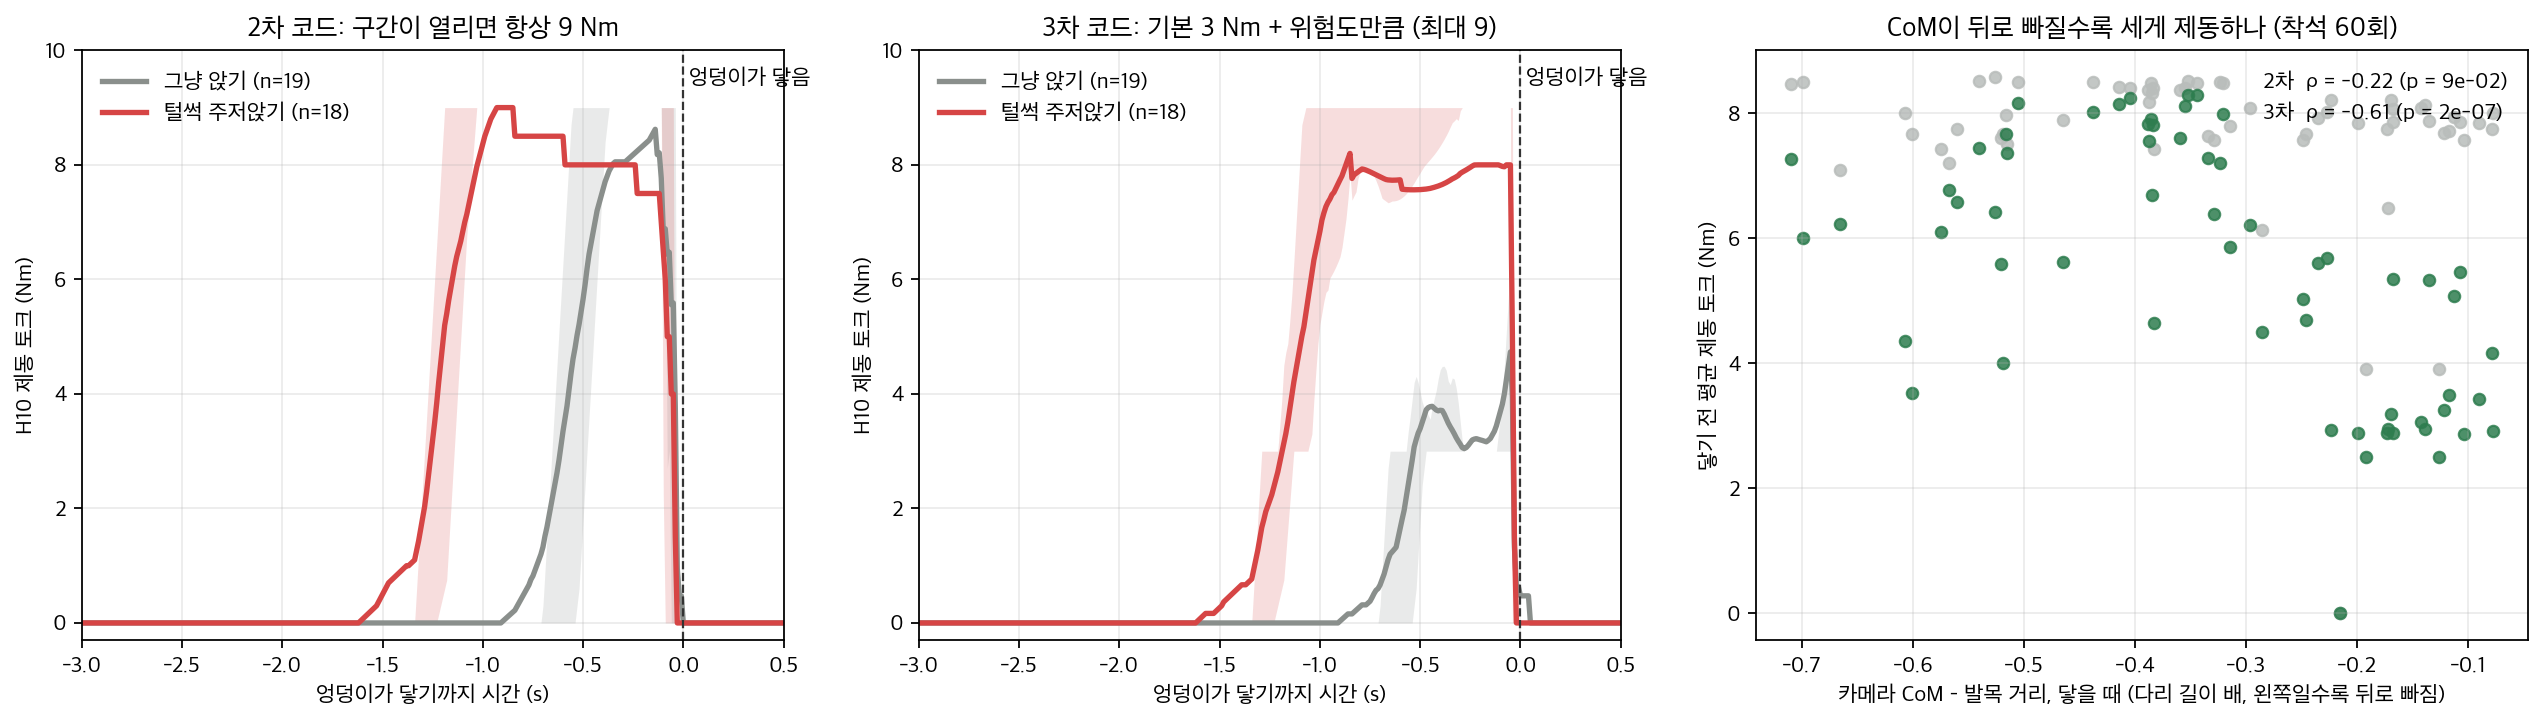
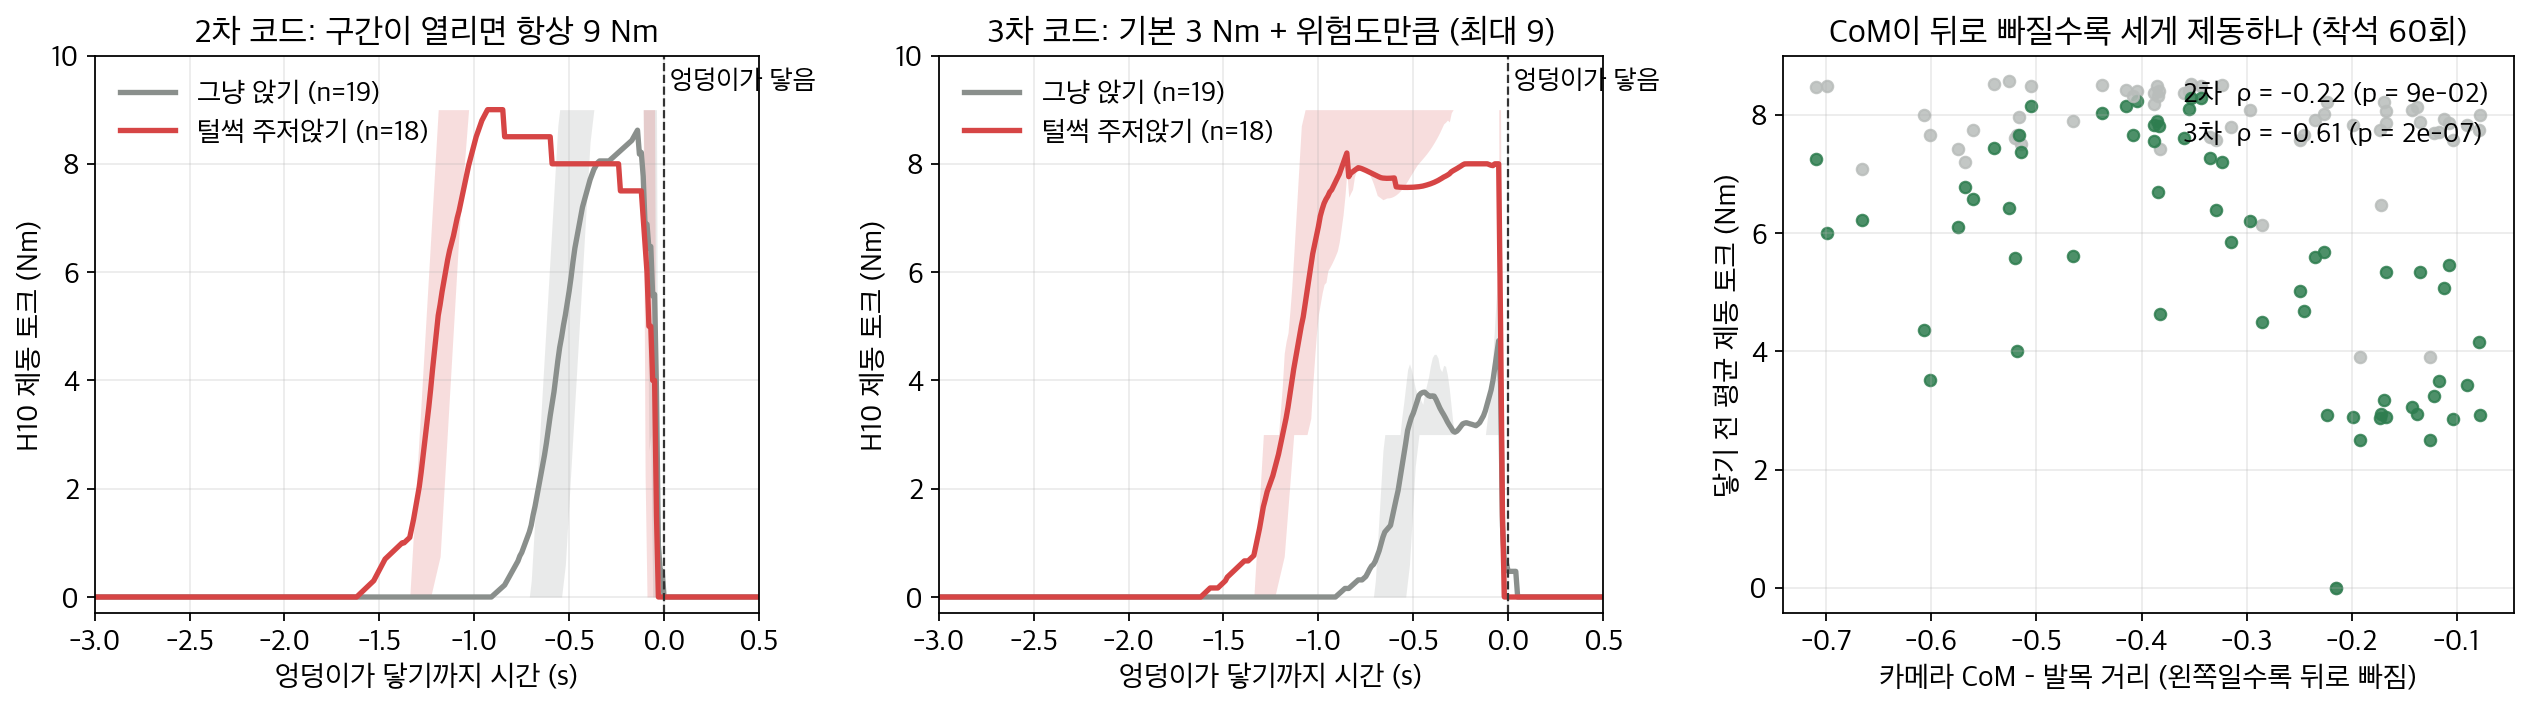
Reflect 1st->2nd->3rd algorithm story and 3rd replay in script and Q&A

diff --git a/firmware/replay_3rd_test.py b/firmware/replay_3rd_test.py
@@ -93,6 +93,7 @@ def plot(r: pd.DataFrame, path: str):
     from matplotlib import font_manager as fm
     fm.fontManager.addfont("/System/Library/Fonts/AppleSDGothicNeo.ttc")
     plt.rcParams["font.family"] = "Apple SD Gothic Neo"; plt.rcParams["axes.unicode_minus"] = False
+    plt.rcParams["font.size"] = 13
     C = {"그냥": "#8a8f8c", "털썩": "#d64545"}; t = np.arange(-300, 51) / 100
     fig, ax = plt.subplots(1, 3, figsize=(16, 4.6), dpi=160, gridspec_kw={"width_ratios": [1, 1, 1.1]})
     one = r.group.str.startswith("첫 번째")
@@ -103,19 +104,19 @@ def plot(r: pd.DataFrame, path: str):
             m = np.nanmean(X, 0); q1, q3 = np.nanpercentile(X, [25, 75], 0)
             a.fill_between(t, q1, q3, color=C[ty], alpha=.18, lw=0)
             a.plot(t, m, color=C[ty], lw=2.4, label=f"{'그냥 앉기' if ty == '그냥' else '털썩 주저앉기'} (n={len(X)})")
-        a.axvline(0, color="#333", lw=1, ls="--"); a.text(0.03, 9.4, "엉덩이가 닿음", fontsize=10)
+        a.axvline(0, color="#333", lw=1, ls="--"); a.text(0.03, 9.4, "엉덩이가 닿음", fontsize=12)
         a.set_ylim(-0.3, 10); a.set_xlim(-3, 0.5); a.set_xlabel("엉덩이가 닿기까지 시간 (s)")
         a.set_ylabel("H10 제동 토크 (Nm)")
-        a.set_title(f"{n} 코드: " + ("구간이 열리면 항상 9 Nm" if n == "2차" else "기본 3 Nm + 위험도만큼 (최대 9)"), fontsize=12)
-        a.legend(loc="upper left", fontsize=10, frameon=False); a.grid(alpha=.25)
+        a.set_title(f"{n} 코드: " + ("구간이 열리면 항상 9 Nm" if n == "2차" else "기본 3 Nm + 위험도만큼 (최대 9)"), fontsize=15)
+        a.legend(loc="upper left", fontsize=12.5, frameon=False); a.grid(alpha=.25)
     from scipy.stats import spearmanr
     a = ax[2]
     for n, mk, col in [("2차", "o", "#b9bdbb"), ("3차", "o", "#2e7d4f")]:
         x = r[r.alg == n]; rho, p = spearmanr(x.mean_on, x.dx)
         a.scatter(x.dx, x.mean_on, s=26, marker=mk, color=col, alpha=.85, label=f"{n}  ρ = {rho:+.2f} (p = {p:.0e})")
-    a.set_xlabel("카메라 CoM – 발목 거리, 닿을 때 (다리 길이 배, 왼쪽일수록 뒤로 빠짐)")
-    a.set_ylabel("닿기 전 평균 제동 토크 (Nm)"); a.set_title("CoM이 뒤로 빠질수록 세게 제동하나 (착석 60회)", fontsize=12)
-    a.legend(loc="upper right", fontsize=10, frameon=False); a.grid(alpha=.25)
+    a.set_xlabel("카메라 CoM – 발목 거리 (왼쪽일수록 뒤로 빠짐)")
+    a.set_ylabel("닿기 전 평균 제동 토크 (Nm)"); a.set_title("CoM이 뒤로 빠질수록 세게 제동하나 (착석 60회)", fontsize=15)
+    a.legend(loc="upper right", fontsize=12.5, frameon=False); a.grid(alpha=.25)
     fig.tight_layout(); fig.savefig(path, bbox_inches="tight"); print("그림:", path)
 
 

diff --git a/presentation/예상_질문.md b/presentation/예상_질문.md
@@ -142,3 +142,17 @@
 
 **Q33. 실험의 의의를 한 문장으로 하면요?** [38]
 사람마다 평소 착석으로 기준을 만들고, 카메라 CoM으로 찾은 H10 신호로 위험한 착석을 골라 제동하도록 설계했고, 그 제동으로 닿기 직전 하강 속도가 실제로 25~40% 줄었습니다.
+
+---
+
+## 7. 2차 · 3차 알고리즘
+
+**Q34. 2차 실측에서 속도가 줄어든 건 위험 감지 덕분인가요?** [35]
+아닙니다. 2차는 위험 감지 없이 허벅지 25°~70°에서 같은 세기로 제동한 구간 제동입니다. 2차가 보여 준 건 '이 구간에서 제동하면 닿기 직전 하강 속도가 실제로 줄어든다'까지입니다. 위험한 착석을 골라 더 세게 거는 것은 3차에서 넣었고, 지금은 기록 재생으로만 확인했습니다.
+
+**Q35. 3차는 2차에서 무엇이 바뀌었나요?** [36 · 37]
+구간은 그대로 두고 세기만 바꿨습니다. 토크 = 기본 3 Nm + 6 Nm × 위험도이고, 위험도는 ① 평소보다 빠른 정도 ② H10 각도로 계산한 CoM이 평소보다 뒤로 빠진 정도 ③ 낮은 의자(69.4° 초과) 중 가장 큰 값입니다. 낮은 의자에서는 구간을 착석까지 늘립니다.
+
+**Q36. 3차 기록 재생은 어떻게 했나요? 영상을 알고리즘에 넣었나요?** [38]
+영상은 알고리즘에 넣지 않았습니다. 카메라와 H10을 함께 기록한 착석 60회에서, 영상으로는 착석마다 CoM이 얼마나 뒤로 빠졌는지(정답)를 구했습니다. H10 기록은 장비에 들어가는 C 코드에 처음부터 끝까지 한 샘플씩 그대로 넣어 토크를 계산했습니다. 그 토크를 정답과 비교하니 3차는 CoM이 뒤로 빠진 착석일수록 세게 제동했습니다(ρ −0.61, 2차는 −0.22).
+덧붙이면, 기록은 보조 없이 앉은 것이라 3차가 속도를 얼마나 줄일지는 재생으로 알 수 없습니다. 위험도 문턱값도 같은 데이터로 정해서 3차 실측으로 다시 확인해야 합니다.
